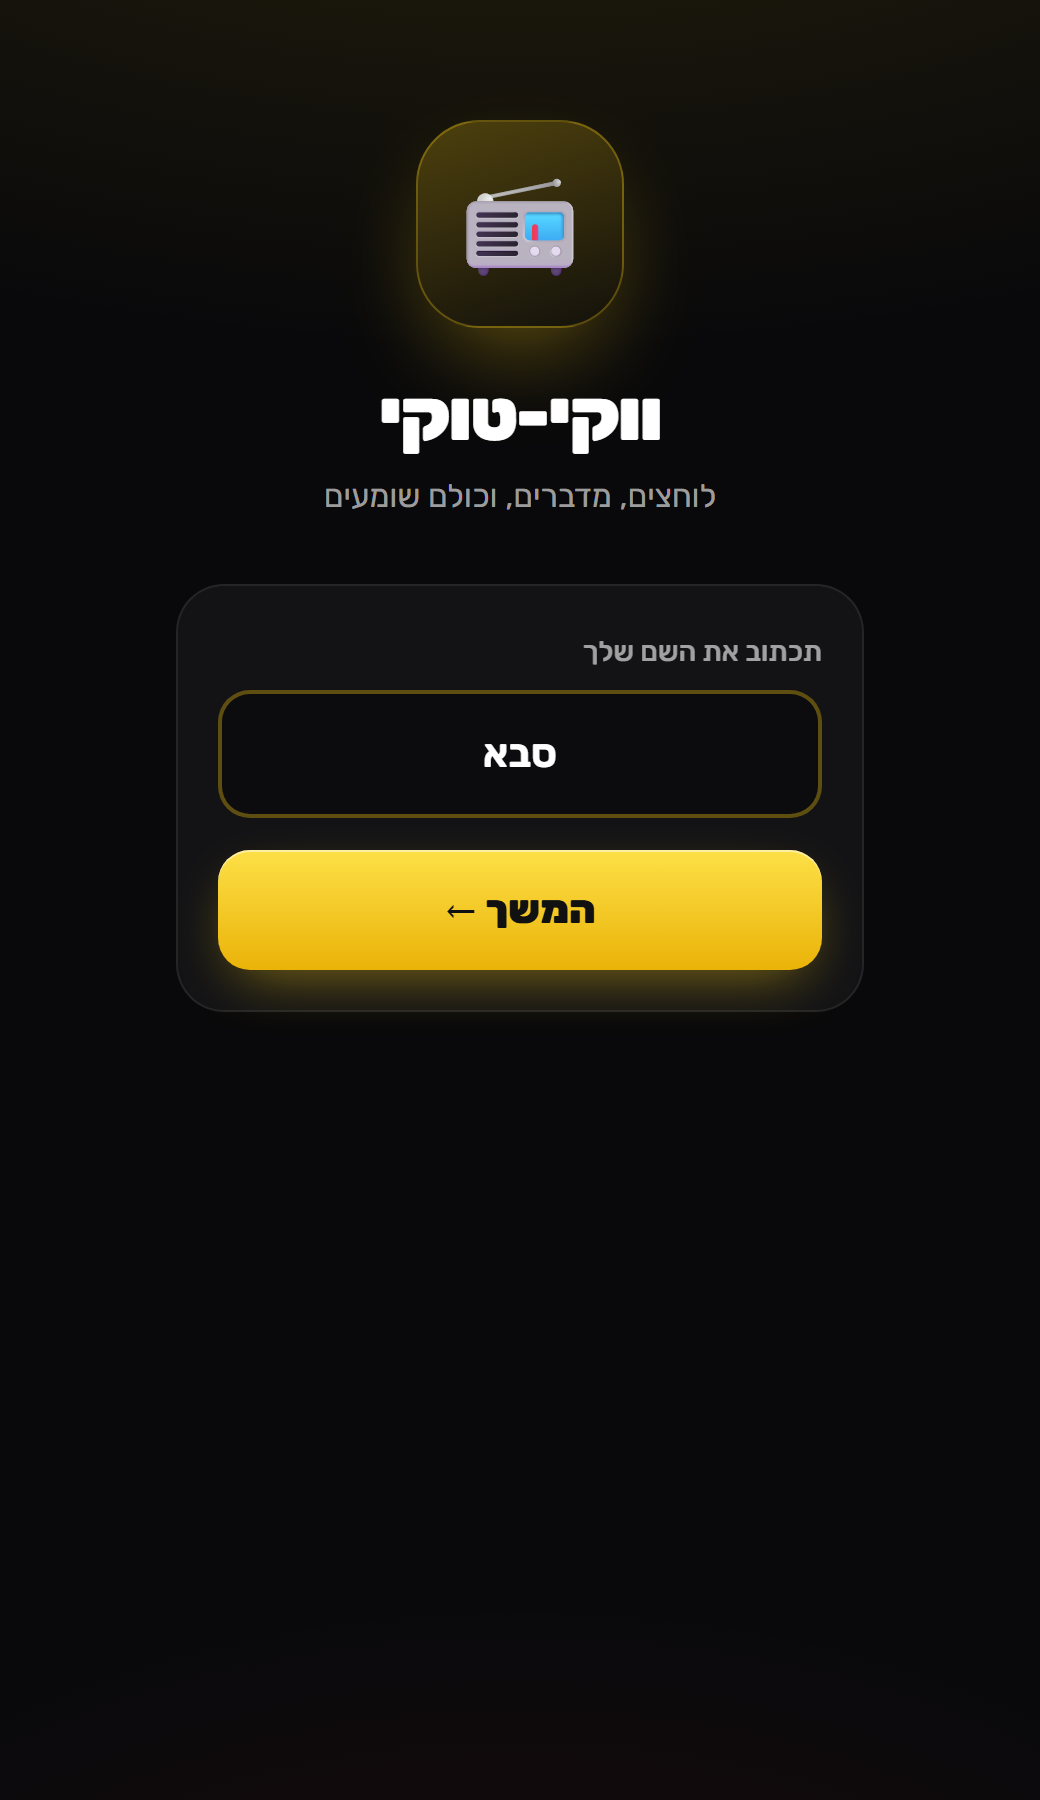
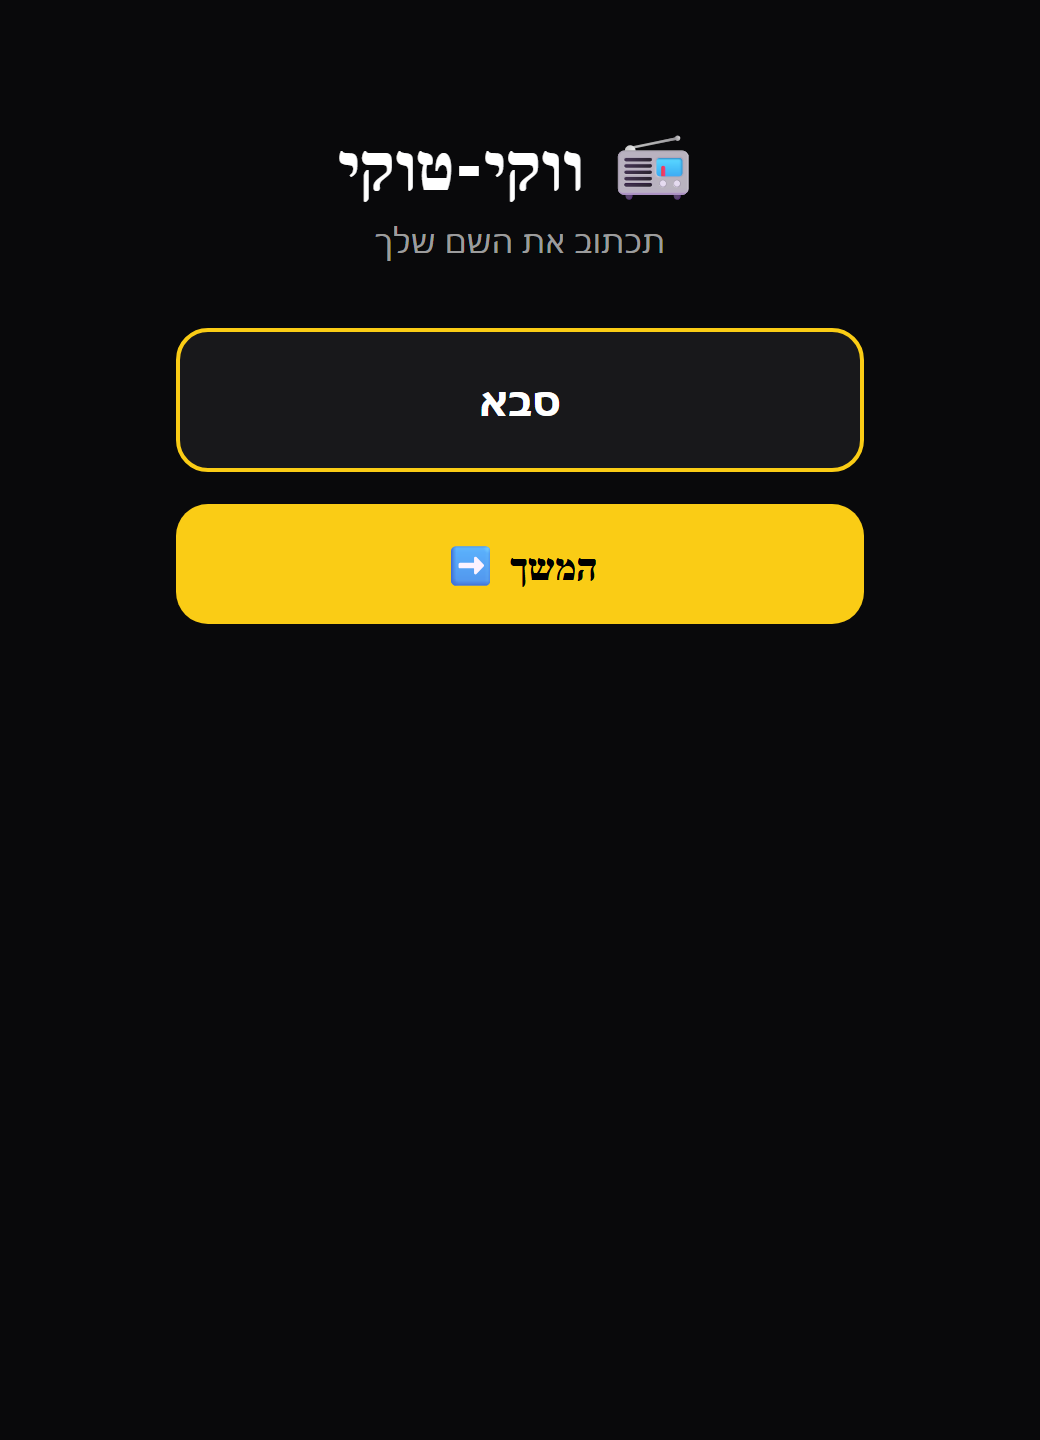
Restore the original walkie-talkie index.html as-is
Reverts the GUI redesign and connection changes; screenshots and README
match the original file again.

Changed region(s): [[0.1538, 0.2188, 0.8308, 0.5625], [0.3077, 0.0625, 0.6769, 0.3125], [0.1538, 0.2188, 0.2154, 0.3125]]

diff --git a/README.md b/README.md
@@ -15,9 +15,9 @@
 |:---:|:---:|:---:|
 | <img src="screenshots/1-name.png" width="220"> | <img src="screenshots/2-welcome.png" width="220"> | <img src="screenshots/3-host.png" width="220"> |
 
-| 4. הצטרפות | 5. מישהו מדבר | 6. אתה משדר |
-|:---:|:---:|:---:|
-| <img src="screenshots/4-join.png" width="220"> | <img src="screenshots/5-talk.png" width="220"> | <img src="screenshots/6-on-air.png" width="220"> |
+| 4. הצטרפות | 5. לחץ ודבר |
+|:---:|:---:|
+| <img src="screenshots/4-join.png" width="220"> | <img src="screenshots/5-talk.png" width="220"> |
 
 ## 🚀 איך משתמשים
 
